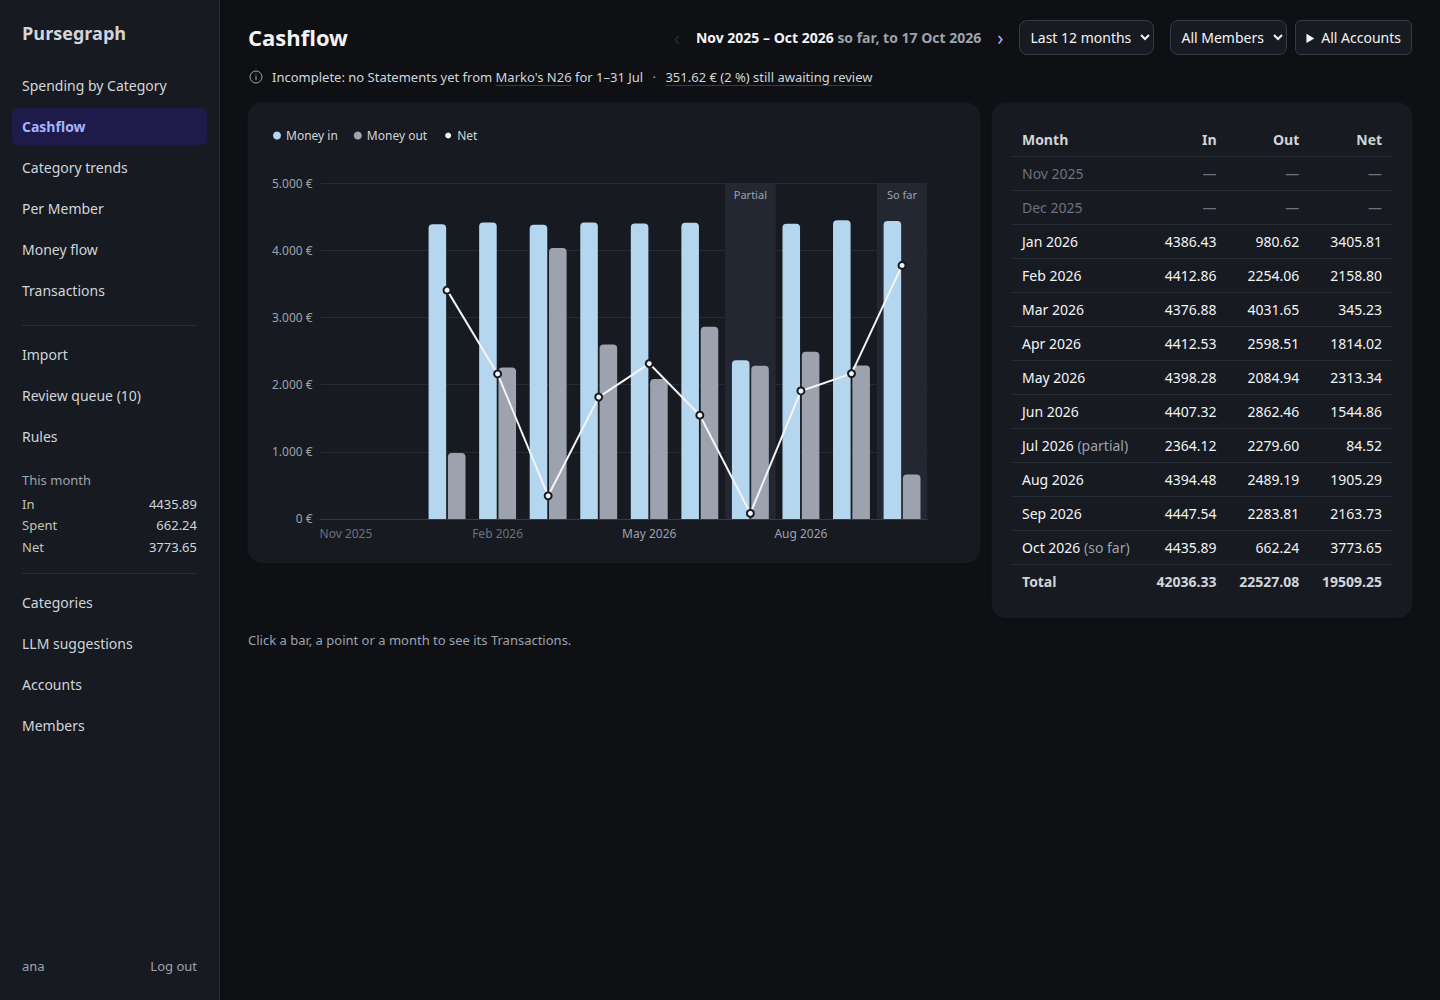
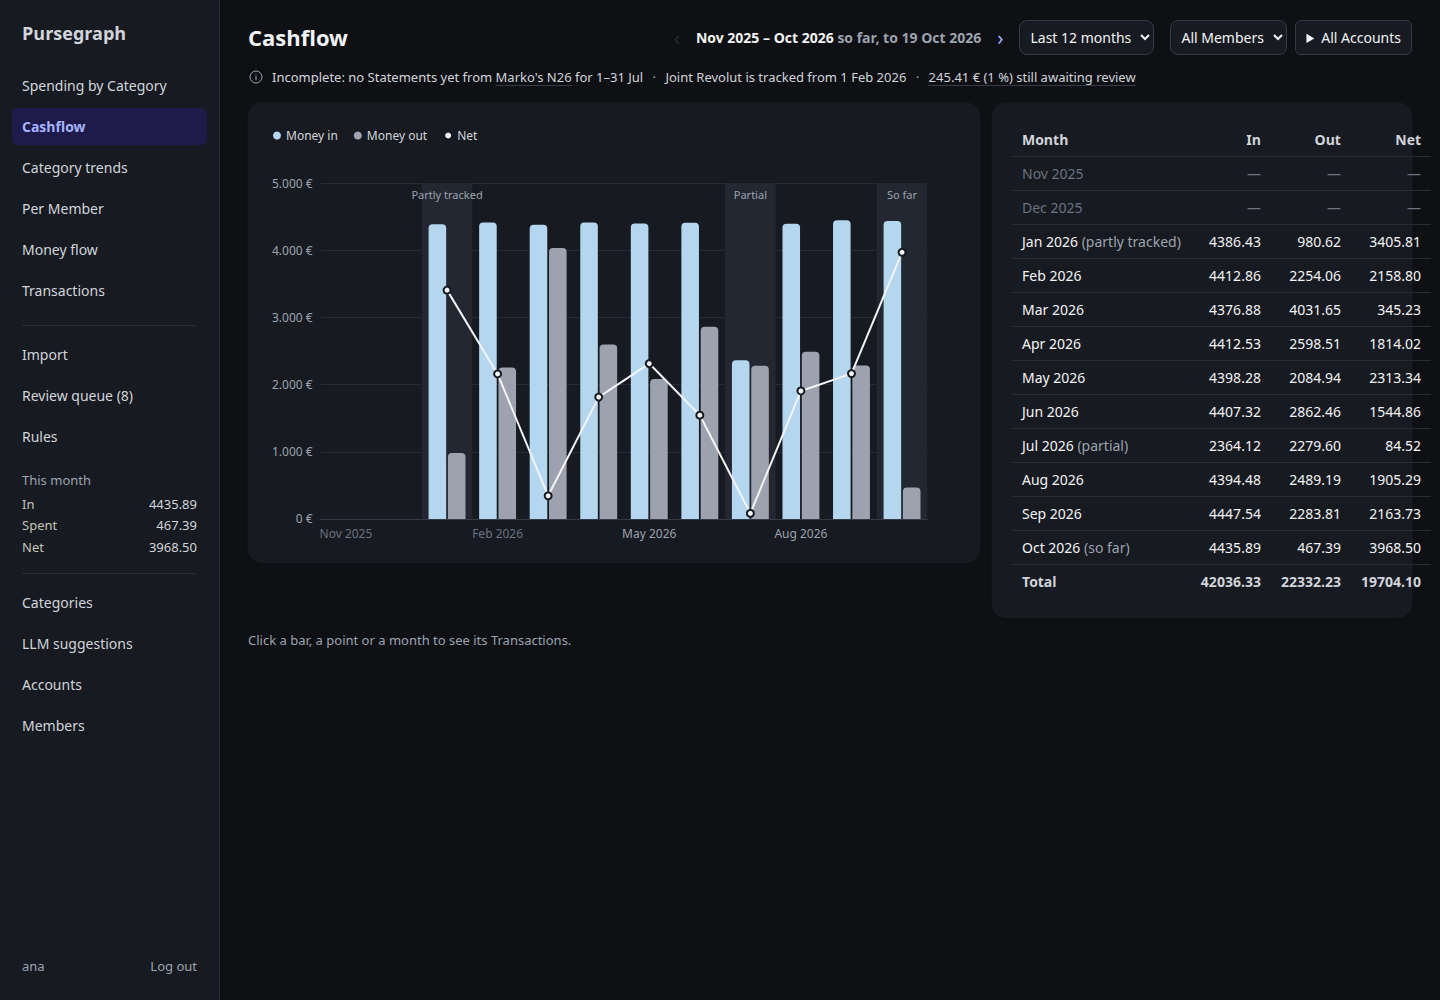
PROTOTYPE (#75): Partly tracked months

diff --git a/templates/dashboard/_view.html b/templates/dashboard/_view.html
@@ -1,16 +1,18 @@
-{% load i18n %}{# A dashboard view's frame: the whole page includes the view, and HTMX swaps it in alone. #}
+{% load i18n proto75 %}{# A dashboard view's frame: the whole page includes the view, and HTMX swaps it in alone. #}
 <div class="view-bar">
   <h2>{% block title %}{% endblock %}</h2>
   {% include "dashboard/_period.html" %}
   {% include "dashboard/_filters.html" %}
 </div>
-{% if completeness.by_account or completeness.awaiting %}{# PROTOTYPE (#75 Period completeness): throwaway. #}
+{% if completeness.by_account or completeness.tracked_from or completeness.awaiting %}{# PROTOTYPE (#75 Period completeness): throwaway. #}
 <p class="completeness">
   <svg aria-hidden="true" width="16" height="16" viewBox="0 0 24 24" fill="none" stroke="currentColor" stroke-width="1.5" stroke-linecap="round" stroke-linejoin="round"><circle cx="12" cy="12" r="9"/><path d="M12 11v5M12 8h.01"/></svg>
   <span>
   {% with gaps=completeness.by_account %}{% if gaps %}Incomplete: no Statements yet from
     {% for account, days in gaps %}{% if forloop.counter == 3 %}<button type="button" class="more" onclick="this.hidden=true;this.nextElementSibling.hidden=false">and {{ gaps|length|add:"-2" }} more</button><span hidden>{% endif %}{% if forloop.counter > 1 %}{% if forloop.last %} and {% else %}, {% endif %}{% endif %}<a href="{% url 'import' %}">{{ account }}</a> for {{ days }}{% if forloop.last and forloop.counter > 2 %}</span>{% endif %}{% endfor %}{% endif %}{% endwith %}
-  {% if completeness.by_account and completeness.awaiting %}<span class="sep" aria-hidden="true">·</span>{% endif %}
+  {% if completeness.by_account and completeness.tracked_from %}<span class="sep" aria-hidden="true">·</span>{% endif %}
+  {% for pair in completeness.tracked_from %}{% if not forloop.first %}, {% endif %}{{ pair|tracked_from }}{% endfor %}
+  {% if completeness.awaiting and completeness.by_account or completeness.awaiting and completeness.tracked_from %}<span class="sep" aria-hidden="true">·</span>{% endif %}
   {% if completeness.awaiting %}<a href="{% url 'review_queue' %}">{{ completeness.awaiting|floatformat:"2g" }} € ({{ completeness.awaiting_share }} %) still awaiting review</a>{% endif %}
   </span>
 </p>

diff --git a/templates/dashboard/_trends.html b/templates/dashboard/_trends.html
@@ -5,7 +5,7 @@
 {% block table %}
 <div class="scroll">
 <table class="view-table">
-  <thead><tr><th>{% translate "Category" %}</th>{% for month in chart.months %}{% with state=chart.states|at:forloop.counter0 %}<th class="num{% if state == "not_tracked" %} faint{% endif %}">{{ month }}{% if state == "partial" %} <span class="qualifier">(partial)</span>{% elif state == "in_progress" %} <span class="qualifier">(so far)</span>{% endif %}</th>{% endwith %}{% endfor %}<th class="num">{% translate "Total" %}</th></tr></thead>
+  <thead><tr><th>{% translate "Category" %}</th>{% for month in chart.months %}{% with state=chart.states|at:forloop.counter0 %}<th class="num{% if state == "not_tracked" %} faint{% endif %}">{{ month }}{% if state == "partial" %} <span class="qualifier">(partial)</span>{% elif state == "partly_tracked" %} <span class="qualifier">(partly tracked)</span>{% elif state == "in_progress" %} <span class="qualifier">(so far)</span>{% endif %}</th>{% endwith %}{% endfor %}<th class="num">{% translate "Total" %}</th></tr></thead>
   <tbody>
   {% for row in data.rows %}
   <tr class="mark" tabindex="0" hx-get="{{ chart.drill }}{{ row.key }}" hx-target="#drill" hx-trigger="click, keyup[key=='Enter']">

diff --git a/templates/dashboard/_cashflow.html b/templates/dashboard/_cashflow.html
@@ -9,7 +9,7 @@
   {% for row in data.rows %}
   <tr class="mark" tabindex="0" hx-get="{{ chart.drill }}{{ row.key }}" hx-target="#drill" hx-trigger="click, keyup[key=='Enter']">
     {% with state=completeness|month_state:row.key %}
-    <td{% if state == "not_tracked" %} class="faint"{% endif %}>{{ row.label }}{% if state == "partial" %} <span class="qualifier">(partial)</span>{% elif state == "in_progress" %} <span class="qualifier">(so far)</span>{% endif %}</td>
+    <td{% if state == "not_tracked" %} class="faint"{% endif %}>{{ row.label }}{% if state == "partial" %} <span class="qualifier">(partial)</span>{% elif state == "partly_tracked" %} <span class="qualifier">(partly tracked)</span>{% elif state == "in_progress" %} <span class="qualifier">(so far)</span>{% endif %}</td>
     {% if state == "not_tracked" %}<td class="num faint">—</td><td class="num faint">—</td>{% if chart.others %}<td class="num faint">—</td>{% endif %}<td class="num faint">—</td>{% else %}
     <td class="num">{{ row.money_in|floatformat:2 }}</td>
     <td class="num">{{ row.money_out|floatformat:2 }}</td>

diff --git a/static/prototype-64/charts.js b/static/prototype-64/charts.js
@@ -84,10 +84,10 @@
   };
 
   // ---------- Variant A: Classic axes ----------
-  // PROTOTYPE (#75 Period completeness): a labelled band behind each Partial and In progress month, Not tracked
+  // PROTOTYPE (#75 Period completeness): a labelled band behind each Partial, Partly tracked and In progress month, Not tracked
   // months as no data with a Faint axis label, and the tooltip opening with the reason. The bands ride on a
   // series of their own, so that hiding a legend entry never hides them.
-  const BAND = { partial: 'Partial', in_progress: 'So far' };
+  const BAND = { partial: 'Partial', partly_tracked: 'Partly tracked', in_progress: 'So far' };
   const stateOf = (data, i) => data.states?.[i] || 'complete';
   // Full-height bars on hidden axes of their own: a markArea from a month to itself has no width on a
   // category axis, and on the shared axes the bars would join Cashflow's groups.

diff --git a/dashboard/completeness.py b/dashboard/completeness.py
@@ -17,9 +17,9 @@ from ledger.models import Account
 from . import periods, queries
 from .periods import Period
 
-COMPLETE, PARTIAL, IN_PROGRESS, NOT_TRACKED = "complete", "partial", "in_progress", "not_tracked"
+COMPLETE, PARTIAL, PARTLY, IN_PROGRESS, NOT_TRACKED = "complete", "partial", "partly_tracked", "in_progress", "not_tracked"
 # A longer Period takes the first of these that any of its months is.
-PRECEDENCE = [PARTIAL, IN_PROGRESS, NOT_TRACKED, COMPLETE]
+PRECEDENCE = [PARTIAL, PARTLY, IN_PROGRESS, NOT_TRACKED, COMPLETE]
 
 
 @dataclass(frozen=True)
@@ -67,8 +67,12 @@ def _state(month: Period, accounts) -> str:
     within = DateRange(month.start, month.end)
     if any(_gaps(coverage, within) for _a, coverage in accounts):
         return PARTIAL
-    if not any(coverage and coverage[0].start <= month.end for _a, coverage in accounts):
+    started = [bool(coverage) and coverage[0].start <= month.end for _a, coverage in accounts]
+    if not any(started):
         return NOT_TRACKED
+    # Before some included Account's first Coverage day: an Account opened later, or history never imported.
+    if not all(coverage and coverage[0].start <= month.start for _a, coverage in accounts):
+        return PARTLY
     return IN_PROGRESS if month.so_far else COMPLETE
 
 
@@ -76,6 +80,7 @@ def _state(month: Period, accounts) -> str:
 class Completeness:
     state: str
     gaps: list[AccountGap]
+    tracked_from: list[tuple[Account, date]]  # Accounts not yet tracked during part of the Period another one is
     months: dict[str, str]  # month key → state
     awaiting: Decimal
     spent: Decimal
@@ -102,16 +107,30 @@ def of(period: Period, filters: queries.Filters) -> Completeness:
     state = next((s for s in PRECEDENCE if s in months.values()), COMPLETE)
     within = DateRange(period.start, period.end)
     gaps = [AccountGap(a, g) for a, coverage in accounts for g in _gaps(coverage, within)]
+    any_start = min((c[0].start for _a, c in accounts if c), default=None)
+    tracked_from = [
+        (a, c[0].start) for a, c in accounts
+        if any_start and c and c[0].start > max(period.start, any_start) and any_start <= period.end
+    ] + [(a, None) for a, c in accounts if not c and any_start and any_start <= period.end]
     spending = queries._spending(period, filters)
     spent = -(spending.aggregate(t=Sum("amount"))["t"] or Decimal(0))
     awaiting = -(spending.filter(subcategory__isnull=True).aggregate(t=Sum("amount"))["t"] or Decimal(0))
-    return Completeness(state, gaps, months, awaiting, spent)
+    return Completeness(state, gaps, tracked_from, months, awaiting, spent)
 
 
 def household_start() -> date | None:
     """The Household's first Coverage day, whatever the filters: where the stepper's ‹ stops."""
     starts = [c[0].start for _a, c in _accounts(queries.Filters()) if c]
     return min(starts) if starts else None
+
+
+def tracked_from_label(account: Account, start: date | None) -> str:
+    return f"{account} is tracked from {formats.date_format(start, 'j M Y')}" if start else f"{account} has no Statements yet"
+
+
+def partly_reason(tracked_from, month: Period) -> str:
+    """The tooltip's first line for a Partly tracked month."""
+    return "; ".join(tracked_from_label(a, d) for a, d in tracked_from if d is None or d > month.start)
 
 
 def reason(gaps: list[AccountGap], month: Period) -> str:

diff --git a/dashboard/views.py b/dashboard/views.py
@@ -97,6 +97,7 @@ def _prototype_75(period: Period, filters: queries.Filters, chart: dict) -> dict
         chart["states"] = [c.month(k) for k in keys]
         chart["reasons"] = [
             completeness.reason(c.gaps, months[k]) if c.month(k) == completeness.PARTIAL
+            else completeness.partly_reason(c.tracked_from, months[k]) if c.month(k) == completeness.PARTLY
             else f"So far, to {formats.date_format(periods.today(), 'j M')}" if c.month(k) == completeness.IN_PROGRESS
             else "No Statements yet" if c.month(k) == completeness.NOT_TRACKED else ""
             for k in keys

diff --git a/dashboard/templatetags/proto75.py b/dashboard/templatetags/proto75.py
@@ -17,3 +17,10 @@ def at(items, index):
 @register.filter
 def month_state(completeness, key):
     return completeness.month(key) if completeness and key else "complete"
+
+
+@register.filter
+def tracked_from(pair):
+    from dashboard.completeness import tracked_from_label
+
+    return tracked_from_label(*pair)

diff --git a/prototypes/75-completeness/README.md b/prototypes/75-completeness/README.md
@@ -13,7 +13,8 @@ The seed gives Coverage that shows every month state. Ana's Sparkasse and Marko'
 
 | Where | Shows |
 |---|---|
-| `/cashflow/?period=last12-2026-10`, `/trends/?period=last12-2026-10` | Not tracked Nov–Dec 2025 (no marks, Faint labels, "—" in the table), a Partial July band, a "So far" October band, and the header line |
+| `/cashflow/?period=last12-2026-10`, `/trends/?period=last12-2026-10` | Not tracked Nov–Dec 2025 (no marks, Faint labels, "—" in the table), a Partly tracked January band, a Partial July band, a "So far" October band, and the header line |
+| `/spending/?period=2026-01` | Partly tracked on a single month: "Joint Revolut is tracked from 1 Feb 2026" |
 | `/trends/` | The new default: the 12 months ending with the last full month |
 | `/spending/?period=2026-07` | The header line on a single-month view |
 | `/spending/?period=2026-07&member=1` | The same month under Ana's Bucket: complete, so no line |
@@ -26,4 +27,5 @@ What's prototype-only: `dashboard/completeness.py` (the month states), `_prototy
 - **Raised is invisible as a band** on the white card. Hover is the quietest fill that still reads, in both themes.
 - **A `markArea` from a month to itself has no width** on a category axis. The bands are full-height bars on hidden axes of their own, so they don't join Cashflow's bar groups and survive hiding a legend entry.
 - **Category trends needs month columns** (`boundaryGap: true`, where #64 had points on the edges) so a band can sit behind a month.
-- **January 2026 reads Complete but isn't:** the Joint Revolut isn't tracked until February, so Home is 0 and Money out is about half. By Q2's rule, days before an Account's first Coverage day aren't a Gap, so nothing flags it.
+- **January 2026 read Complete but wasn't:** the Joint Revolut isn't tracked until February, so Home was 0 and Money out about half, and nothing flagged it (days before an Account's first Coverage day aren't a Gap). Settled with a fifth state, **Partly tracked**, now shown here.
+- **"(partly tracked)" widens the Cashflow table** past its card at 1440 px. The build should let the qualifier wrap under the month.
